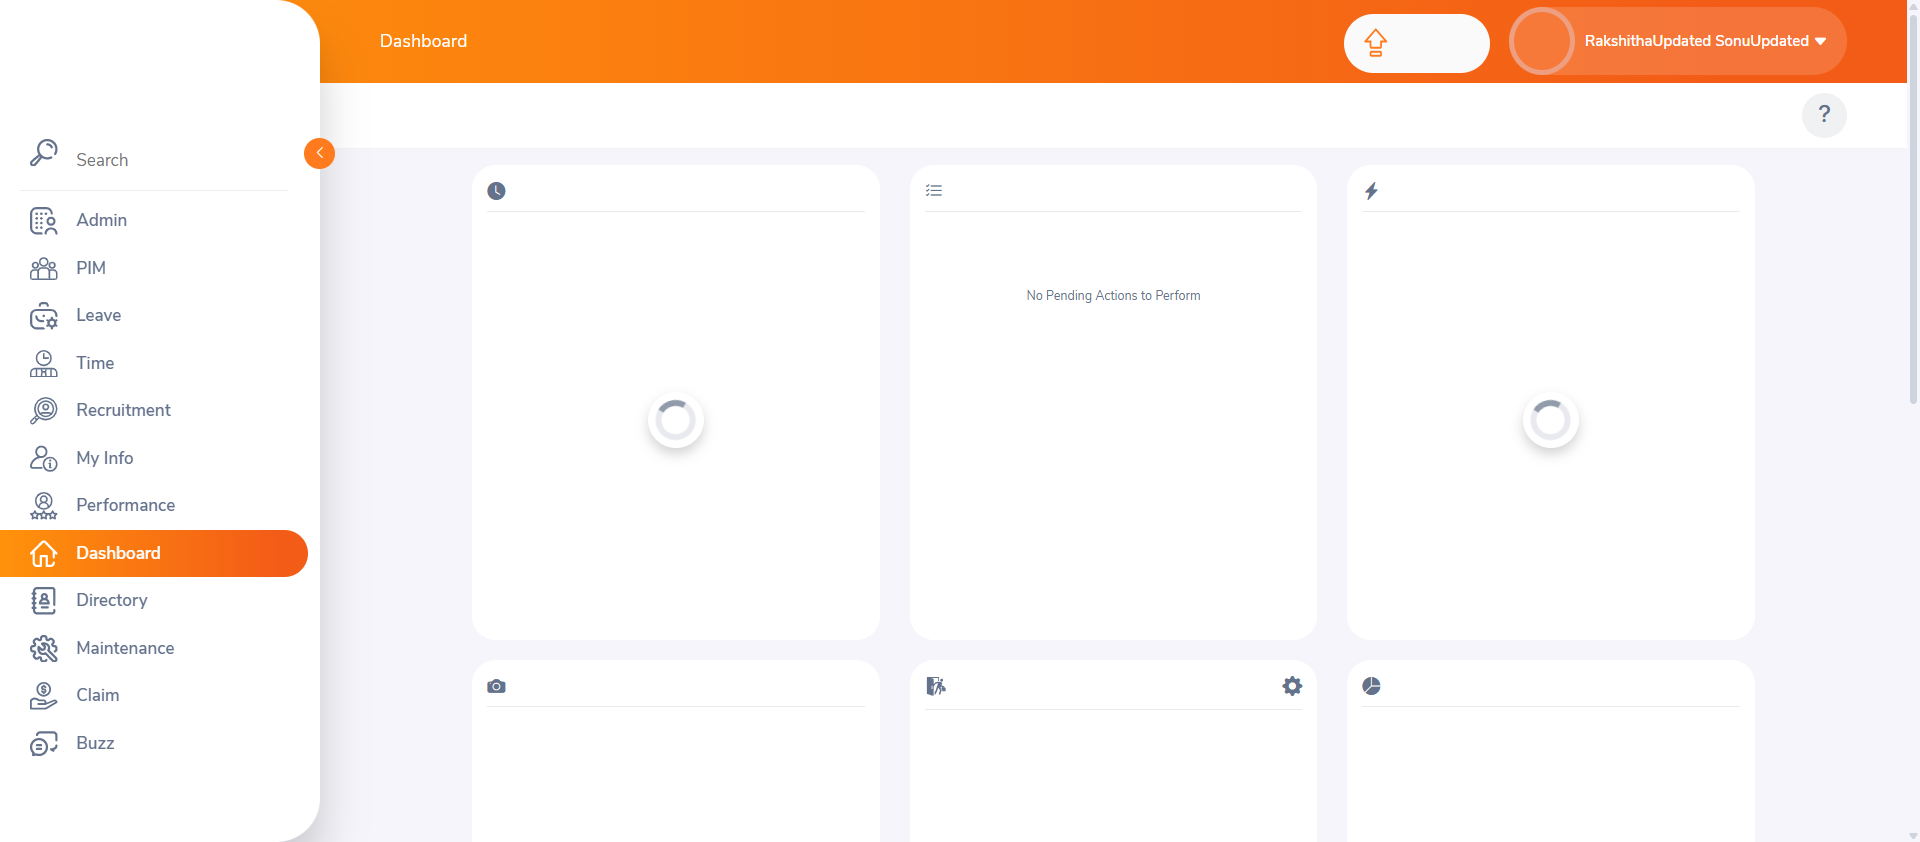
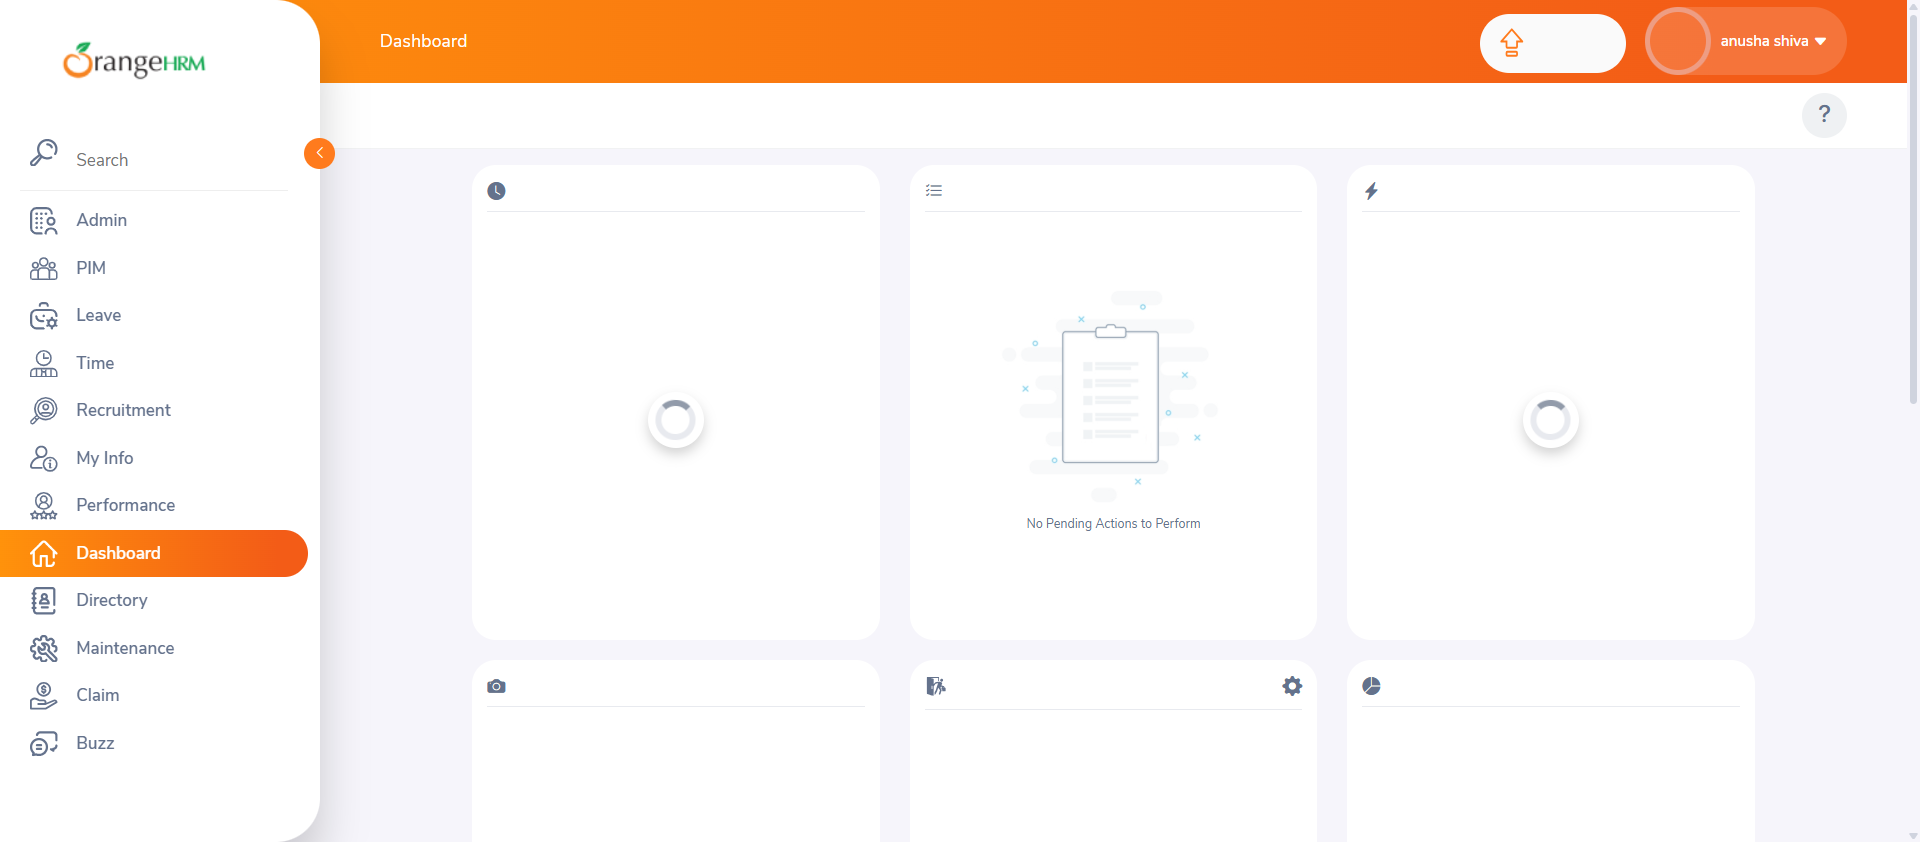
feat(automation): automate TC-010 to TC-018, fix explicit wait, and add screenshots

diff --git a/08-Automation-Testing/05-OrangeHRM-Automation-Project/src/test/java/tests/LoginTest.java b/08-Automation-Testing/05-OrangeHRM-Automation-Project/src/test/java/tests/LoginTest.java
@@ -16,19 +16,12 @@ import java.io.IOException;
 import java.nio.file.Files;
 import java.nio.file.StandardCopyOption;
 
-
 /**
- * Automates test cases already documented manually in:
+ * Automates test cases documented in:
  * 06-Projects/OrangeHRM-Login-Testing/03-Test-Cases/Login-Test-Cases.md
  *
- * TC IDs below match Login-Test-Cases.md exactly (corrected — an earlier
- * version of this file mislabeled these as TC-001 to TC-004, which were
- * the wrong IDs).
- *
- * Covers TC-005, TC-006, TC-008, TC-009 as a starting point. More can be
- * added following the same pattern (e.g. TC-010, TC-011, TC-012, TC-018).
+ * Covers: TC-005, TC-006, TC-008, TC-009, TC-010, TC-011, TC-012, TC-018.
  */
-
 public class LoginTest {
 
     private WebDriver driver;
@@ -37,7 +30,7 @@ public class LoginTest {
     private static final String URL = "https://opensource-demo.orangehrmlive.com/";
     private static final String VALID_USERNAME = "Admin";
     private static final String VALID_PASSWORD = "admin123";
-   
+
     @BeforeMethod
     public void setUp() {
         WebDriverManager.chromedriver().setup();
@@ -50,58 +43,115 @@ public class LoginTest {
     @Test(priority = 1, description = "TC-005: Valid login redirects to the dashboard")
     public void validLoginTest() {
         loginPage.login(VALID_USERNAME, VALID_PASSWORD);
-        
+
         Assert.assertTrue(
             loginPage.waitForUrlToContain("dashboard", 10),
             "Expected to be redirected to the dashboard after a valid login."
         );
 
-        // Wait until the dashboard UI finishes rendering
         loginPage.waitForDashboardToLoad();
-
-        // Capture screenshot of fully rendered page
         captureScreenshot("TC005_Dashboard_Success");
     }
 
     @Test(priority = 2, description = "TC-006: Invalid password shows an error, no login")
     public void invalidPasswordTest() {
         loginPage.login(VALID_USERNAME, "WrongPassword123");
-        
+
         String error = loginPage.getErrorMessage();
         Assert.assertTrue(
             error.toLowerCase().contains("invalid"),
             "Expected an 'invalid credentials' style error message."
         );
         Assert.assertFalse(loginPage.getCurrentUrl().contains("dashboard"));
-        
+
         captureScreenshot("TC006_InvalidPassword_Alert");
     }
 
     @Test(priority = 3, description = "TC-008: Empty username shows a required-field validation")
     public void emptyUsernameTest() {
         loginPage.login("", VALID_PASSWORD);
-        
+
         Assert.assertTrue(
             loginPage.isRequiredFieldErrorDisplayed(),
             "Expected a required-field validation message for the empty username."
         );
-        
+
         captureScreenshot("TC008_EmptyUsername_Validation");
     }
 
     @Test(priority = 4, description = "TC-009: Empty password shows a required-field validation")
     public void emptyPasswordTest() {
         loginPage.login(VALID_USERNAME, "");
-        
+
         Assert.assertTrue(
             loginPage.isRequiredFieldErrorDisplayed(),
             "Expected a required-field validation message for the empty password."
         );
-        
+
         captureScreenshot("TC009_EmptyPassword_Validation");
     }
 
-    
+    @Test(priority = 5, description = "TC-010: Both username and password empty shows two validation errors")
+    public void emptyCredentialsTest() {
+        loginPage.login("", "");
+
+        int errorCount = loginPage.getRequiredFieldErrorCount();
+        Assert.assertEquals(
+            errorCount,
+            2,
+            "Expected 2 required validation messages when both fields are empty, but got: " + errorCount
+        );
+
+        captureScreenshot("TC010_BothFieldsEmpty_Validation");
+    }
+
+    @Test(priority = 6, description = "TC-011: Password field characters are masked")
+    public void passwordMaskingTest() {
+        loginPage.enterPassword("admin123");
+
+        String inputType = loginPage.getPasswordFieldType();
+        Assert.assertEquals(
+            inputType,
+            "password",
+            "Expected password input to have type='password' for visual masking."
+        );
+
+        captureScreenshot("TC011_Password_Masking");
+    }
+
+    @Test(priority = 7, description = "TC-012: Successful logout redirects back to login page")
+    public void logoutTest() {
+        loginPage.login(VALID_USERNAME, VALID_PASSWORD);
+        loginPage.waitForDashboardToLoad();
+
+        loginPage.logout();
+
+        Assert.assertTrue(
+            loginPage.waitForUrlToContain("login", 10),
+            "Expected login URL after logout."
+        );
+        Assert.assertTrue(
+            loginPage.isLoginFormDisplayed(),
+            "Expected login form to be visible after logging out."
+        );
+
+        captureScreenshot("TC012_Logout_Success");
+    }
+
+    @Test(priority = 8, description = "TC-018: Special characters in username handled gracefully")
+    public void specialCharactersInUsernameTest() {
+        loginPage.login("!@#$%^&*()", VALID_PASSWORD);
+
+        String error = loginPage.getErrorMessage();
+        Assert.assertTrue(
+            error.toLowerCase().contains("invalid"),
+            "Expected invalid credentials warning for special characters in username, got: " + error
+        );
+        Assert.assertFalse(loginPage.getCurrentUrl().contains("dashboard"));
+
+        captureScreenshot("TC018_SpecialChars_Username_Alert");
+    }
+
     public void captureScreenshot(String testName) {
         File srcFile = ((TakesScreenshot) driver).getScreenshotAs(OutputType.FILE);
         File destFile = new File("screenshots/" + testName + ".png");
@@ -112,7 +162,7 @@ public class LoginTest {
             e.printStackTrace();
         }
     }
-    
+
     @AfterMethod
     public void tearDown() {
         if (driver != null) {

diff --git a/08-Automation-Testing/05-OrangeHRM-Automation-Project/src/main/java/pages/LoginPage.java b/08-Automation-Testing/05-OrangeHRM-Automation-Project/src/main/java/pages/LoginPage.java
@@ -7,13 +7,8 @@ import org.openqa.selenium.support.ui.ExpectedConditions;
 import org.openqa.selenium.support.ui.WebDriverWait;
 
 import java.time.Duration;
+import java.util.List;
 
-/**
- * Page Object for the OrangeHRM Login page.
- * Locators below are based on the OrangeHRM demo site as of writing —
- * verify them against the live page (they can change with app updates)
- * using browser DevTools ("Inspect Element") before running these tests.
- */
 public class LoginPage {
 
     private final WebDriver driver;
@@ -25,10 +20,12 @@ public class LoginPage {
     private final By loginButton = By.xpath("//button[@type='submit']");
     private final By errorMessage = By.className("oxd-alert-content-text");
     private final By requiredFieldError = By.className("oxd-input-field-error-message");
-    
-    // Locator for the dashboard top header text ("Dashboard")
     private final By dashboardHeader = By.xpath("//h6[text()='Dashboard']");
-    
+
+    // TC-012 Locators: User profile dropdown and logout action link
+    private final By userDropdown = By.className("oxd-userdropdown-name");
+    private final By logoutLink = By.xpath("//a[text()='Logout']");
+
     public LoginPage(WebDriver driver) {
         this.driver = driver;
         this.wait = new WebDriverWait(driver, Duration.ofSeconds(10));
@@ -41,32 +38,60 @@ public class LoginPage {
     }
 
     public void enterPassword(String password) {
-        WebElement field = driver.findElement(passwordField);
+        WebElement field = wait.until(ExpectedConditions.visibilityOfElementLocated(passwordField));
         field.clear();
         field.sendKeys(password);
     }
-
+    
     public void clickLogin() {
         driver.findElement(loginButton).click();
     }
 
-    /**
-     * Combined login action — mirrors the manual test case steps documented
-     * in 06-Projects/OrangeHRM-Login-Testing.
-     */
     public void login(String username, String password) {
         enterUsername(username);
         enterPassword(password);
         clickLogin();
     }
 
+    // TC-005: Waits until dashboard header is rendered after valid authentication
+    public void waitForDashboardToLoad() {
+        wait.until(ExpectedConditions.visibilityOfElementLocated(dashboardHeader));
+    }
+
+    // TC-006 & TC-018: Retrieves the invalid credentials error banner text
     public String getErrorMessage() {
         WebElement error = wait.until(ExpectedConditions.visibilityOfElementLocated(errorMessage));
         return error.getText();
     }
 
+    // TC-008 & TC-009: Checks single required validation error message display
     public boolean isRequiredFieldErrorDisplayed() {
-        return !driver.findElements(requiredFieldError).isEmpty();
+        WebElement error = wait.until(ExpectedConditions.visibilityOfElementLocated(requiredFieldError));
+        return error.isDisplayed();
+    }
+
+    // TC-010: Returns total count of required validation messages when multiple fields are empty
+    public int getRequiredFieldErrorCount() {
+        wait.until(ExpectedConditions.visibilityOfElementLocated(requiredFieldError));
+        List<WebElement> errors = driver.findElements(requiredFieldError);
+        return errors.size();
+    }
+
+    // TC-011: Returns the HTML 'type' attribute to verify password masking (type='password')
+    public String getPasswordFieldType() {
+        WebElement field = wait.until(ExpectedConditions.visibilityOfElementLocated(passwordField));
+        return field.getAttribute("type");
+    }
+    
+    // TC-012: Executes logout sequence from dashboard profile menu
+    public void logout() {
+        wait.until(ExpectedConditions.elementToBeClickable(userDropdown)).click();
+        wait.until(ExpectedConditions.elementToBeClickable(logoutLink)).click();
+    }
+
+    // Confirms redirection back to login page by checking login button visibility
+    public boolean isLoginFormDisplayed() {
+        return wait.until(ExpectedConditions.visibilityOfElementLocated(loginButton)).isDisplayed();
     }
 
     public String getCurrentUrl() {
@@ -76,9 +101,5 @@ public class LoginPage {
     public boolean waitForUrlToContain(String fraction, int timeoutSeconds) {
         WebDriverWait customWait = new WebDriverWait(driver, Duration.ofSeconds(timeoutSeconds));
         return customWait.until(ExpectedConditions.urlContains(fraction));
-    }
-    
-    public void waitForDashboardToLoad() {
-        wait.until(ExpectedConditions.visibilityOfElementLocated(dashboardHeader));
     }
 }
